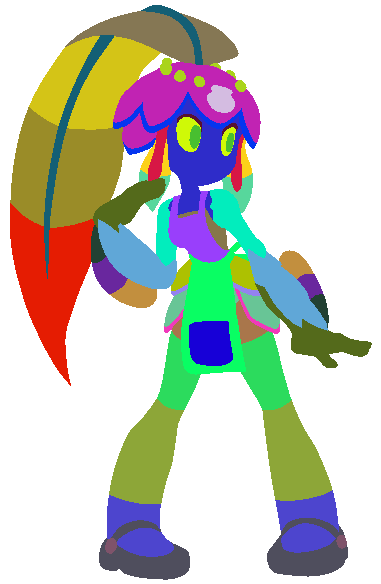
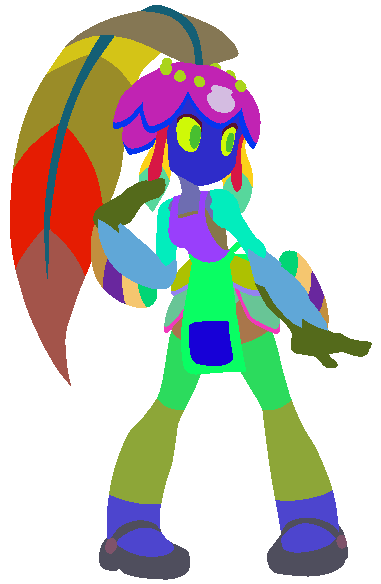
+custom

diff --git a/directory.js b/directory.js
@@ -718,6 +718,7 @@ var ids = {
         "custom/wexllie/filia",
         "custom/wexllie/umbrella",
         "custom/wexllie/umbrella1",
+        "custom/wexllie/umbrella2",
         "custom/whokilledbone/annie",
         "custom/whokilledbone/blackdahlia",
         "custom/whokilledbone/robo.fortune",
@@ -774,6 +775,7 @@ var ids = {
         "custom/yixtu_qu/marie2",
         "custom/yixtu_qu/marie3",
         "custom/yixtu_qu/minette",
+        "custom/yixtu_qu/minette2",
         "custom/yixtu_qu/msfortune",
         "custom/yixtu_qu/msfortune2",
         "custom/yixtu_qu/msfortune_faceup",
